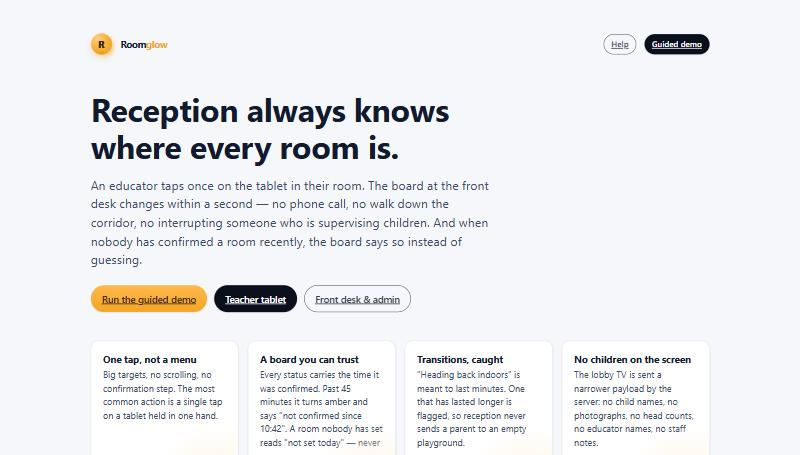
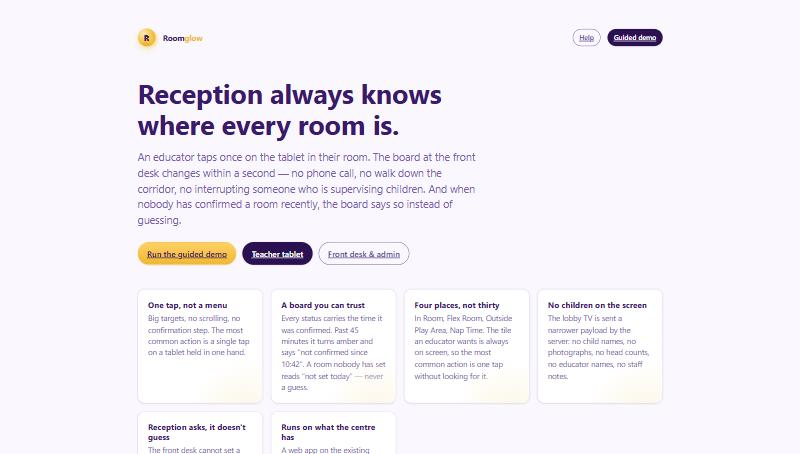
Bring the case study back in line with the product
The page was describing software that no longer exists: five places the
centre stopped using, a PIN as the only way to sign a tablet in, 79 tests,
and screenshots in the old palette.

Adds the two things the centre's first week actually produced - rooms
that combine when numbers drop, and a lobby screen that needed nothing
typed into it with a remote control - and the fifth real bug, which was
the worst of them and the only one no test could have caught.

Code extracts refreshed from source by a script rather than by hand.

diff --git a/code/core/rooms.ts b/code/core/rooms.ts
@@ -21,7 +21,7 @@ import { presence, type Audience } from './events.ts';
 import { clampText, minutesBetween, newId, nowIso } from './util.ts';
 import type { User } from './auth.ts';
 
-export type LocationKind = 'indoor' | 'outdoor' | 'transition' | 'activity' | 'offsite';
+export type LocationKind = 'indoor' | 'outdoor' | 'transition' | 'activity' | 'offsite' | 'rest';
 
 export interface Location {
   id: string;
@@ -97,6 +97,7 @@ interface StateRow {
   source: string | null;
   confirm_requested_at: string | null;
   confirm_requested_by: string | null;
+  merged_into: string | null;
 }
 
 /** What the lobby TV is allowed to know. No names. No notes. By construction. */
@@ -113,6 +114,10 @@ export interface KioskRoom {
   minutesSince: number | null;
   freshness: Freshness;
   backBy: string | null;
+  /** Set when this room's children are with another room. */
+  mergedInto: { id: string; name: string; shortName: string } | null;
+  /** Rooms that have merged into this one. */
+  hosting: Array<{ id: string; name: string; shortName: string }>;
 }
 
 /** What a signed-in member of staff sees in addition. */
@@ -155,6 +160,15 @@ interface JoinedRow extends StateRow, Room {
   location_label: string | null;
   location_kind: LocationKind | null;
   location_icon: string | null;
+  /** When merged, the host room's own place is what reception actually needs. */
+  host_id: string | null;
+  host_name: string | null;
+  host_short: string | null;
+  host_label: string | null;
+  host_location_id: string | null;
+  host_kind: LocationKind | null;
+  host_icon: string | null;
+  host_updated_at: string | null;
 }
 
 function joinedRows(roomId?: string): JoinedRow[] {
@@ -162,11 +176,17 @@ function joinedRows(roomId?: string): JoinedRow[] {
     `SELECT r.id, r.name, r.short_name, r.age_group, r.accent, r.sort_order, r.archived_at,
             s.room_id, s.location_id, s.note, s.back_by, s.version, s.updated_at,
             s.actor_id, s.actor_name, s.actor_role, s.source,
-            s.confirm_requested_at, s.confirm_requested_by,
-            l.label AS location_label, l.kind AS location_kind, l.icon AS location_icon
+            s.confirm_requested_at, s.confirm_requested_by, s.merged_into,
+            l.label AS location_label, l.kind AS location_kind, l.icon AS location_icon,
+            h.id AS host_id, h.name AS host_name, h.short_name AS host_short,
+            hl.label AS host_label, hl.kind AS host_kind, hl.icon AS host_icon,
+            hs.location_id AS host_location_id, hs.updated_at AS host_updated_at
        FROM rooms r
        LEFT JOIN room_state s ON s.room_id = r.id
        LEFT JOIN locations  l ON l.id = s.location_id
+       LEFT JOIN rooms      h  ON h.id = s.merged_into
+       LEFT JOIN room_state hs ON hs.room_id = h.id
+       LEFT JOIN locations  hl ON hl.id = hs.location_id
       WHERE r.archived_at IS NULL ${roomId ? 'AND r.id = ?' : ''}
       ORDER BY r.sort_order, r.name`,
     ...(roomId ? [roomId] : []),
@@ -174,20 +194,32 @@ function joinedRows(roomId?: string): JoinedRow[] {
 }
 
 function toKiosk(row: JoinedRow, limits: ReturnType<typeof thresholds>, now: string): KioskRoom {
-  const { freshness, minutesSince } = freshnessOf(row, row.location_kind, limits, now);
+  // A merged room borrows the host's place, because the host's name on its own
+  // leaves reception asking a second question. It borrows the host's confirmation time
+  // too: the claim that matters is the one about where those children physically are.
+  const merged = row.merged_into && row.host_id;
+  const kind = merged ? row.host_kind : row.location_kind;
+  const { freshness, minutesSince } = merged
+    ? freshnessOf({ updated_at: row.host_updated_at, location_id: row.host_location_id }, kind, limits, now)
+    : freshnessOf(row, kind, limits, now);
+
   return {
     id: row.id,
     name: row.name,
     shortName: row.short_name,
     ageGroup: row.age_group,
     accent: row.accent,
-    location: row.location_label,
-    locationKind: row.location_kind,
-    icon: row.location_icon,
-    updatedAt: row.updated_at,
+    location: merged ? row.host_label : row.location_label,
+    locationKind: kind,
+    icon: merged ? row.host_icon : row.location_icon,
+    updatedAt: merged ? row.host_updated_at : row.updated_at,
     minutesSince,
     freshness,
-    backBy: row.back_by,
+    backBy: merged ? null : row.back_by,
+    mergedInto: merged
+      ? { id: row.host_id!, name: row.host_name!, shortName: row.host_short! }
+      : null,
+    hosting: [],
   };
 }
 
@@ -219,6 +251,18 @@ export function buildBoard(audience: Audience): Board {
     audience === 'kiosk'
       ? rows.map((row) => toKiosk(row, limits, now))
       : rows.map((row) => toStaff(row, limits, now, devices));
+
+  // The other side of a merge: a host room should say who is in with it, so the front
+  // desk reads the answer from whichever card it happens to look at.
+  const byId = new Map(rooms.map((room) => [room.id, room]));
+  for (const room of rooms) {
+    if (!room.mergedInto) continue;
+    byId.get(room.mergedInto.id)?.hosting.push({
+      id: room.id,
+      name: room.name,
+      shortName: room.shortName,
+    });
+  }
 
   return {
     audience,
@@ -335,7 +379,10 @@ export function setStatus(input: SetStatusInput): SetStatusOutcome {
          actor_role  = excluded.actor_role,
          source      = excluded.source,
          confirm_requested_at = NULL,
-         confirm_requested_by = NULL`,
+         confirm_requested_by = NULL,
+         -- Saying where you are ends any merge: a room cannot be both somewhere of its
+         -- own and inside another room.
+         merged_into = NULL`,
       input.roomId,
       input.locationId,
       note,
@@ -370,6 +417,72 @@ export function setStatus(input: SetStatusInput): SetStatusOutcome {
   });
 }
 
+export type MergeOutcome =
+  | { status: 'ok'; room: StaffRoom }
+  | { status: 'no_room' }
+  | { status: 'no_host' }
+  | { status: 'self' }
+  | { status: 'chain'; hostName: string }
+  | { status: 'hosting'; guestNames: string[] };
+
+/**
+ * Put one room's children in with another's.
+ *
+ * Refused in either direction that would make a chain - a host that has itself moved on,
+ * or a room that is already hosting somebody else. Two hops would mean the board sending
+ * reception to a room that is not there either, and the card of the room at the far end
+ * would show no place at all. A chain is also a sign somebody tapped the wrong tile
+ * rather than something a centre means to do; the refusal says which tile to tap.
+ */
+export function mergeRoom(roomId: string, intoRoomId: string, actor: User): MergeOutcome {
+  const room = findRoom(roomId);
+  if (!room || room.archived_at) return { status: 'no_room' };
+  if (roomId === intoRoomId) return { status: 'self' };
+
+  const host = findRoom(intoRoomId);
+  if (!host || host.archived_at) return { status: 'no_host' };
+
+  const hostState = one<StateRow>('SELECT * FROM room_state WHERE room_id = ?', intoRoomId);
+  if (hostState?.merged_into) {
+    const target = findRoom(hostState.merged_into);
+    return { status: 'chain', hostName: target?.name ?? 'another room' };
+  }
+
+  const guests = many<{ name: string }>(
+    `SELECT r.name FROM room_state s JOIN rooms r ON r.id = s.room_id
+      WHERE s.merged_into = ? AND r.archived_at IS NULL ORDER BY r.sort_order`,
+    roomId,
+  );
+  if (guests.length) return { status: 'hosting', guestNames: guests.map((row) => row.name) };
+
+  const at = nowIso();
+  run(
+    `INSERT INTO room_state (room_id, version, merged_into, updated_at, actor_id, actor_name, actor_role, source,
+                             location_id, note, back_by, confirm_requested_at, confirm_requested_by)
+     VALUES (?, 1, ?, ?, ?, ?, ?, 'teacher', NULL, NULL, NULL, NULL, NULL)
+     ON CONFLICT(room_id) DO UPDATE SET
+       merged_into = excluded.merged_into,
+       location_id = NULL,
+       note        = NULL,
+       back_by     = NULL,
+       version     = room_state.version + 1,
+       updated_at  = excluded.updated_at,
+       actor_id    = excluded.actor_id,
+       actor_name  = excluded.actor_name,
+       actor_role  = excluded.actor_role,
+       source      = excluded.source,
+       confirm_requested_at = NULL,
+       confirm_requested_by = NULL`,
+    roomId,
+    intoRoomId,
+    at,
+    actor.id,
+    actor.name,
+    actor.role,
+  );
+  return { status: 'ok', room: roomForStaff(roomId)! };
+}
+
 /** Reception asks a room to confirm where it is. One tap instead of a phone call. */
 export function requestConfirmation(roomId: string, actor: User): StaffRoom | null {
   const room = findRoom(roomId);
@@ -400,6 +513,7 @@ export function clearBoard(): number {
     `UPDATE room_state SET location_id = NULL, note = NULL, back_by = NULL, updated_at = NULL,
                            actor_id = NULL, actor_name = NULL, actor_role = NULL, source = NULL,
                            confirm_requested_at = NULL, confirm_requested_by = NULL,
+                           merged_into = NULL,
                            version = version + 1`,
   ).changes;
 }
@@ -506,7 +620,16 @@ export function updateRoom(
 
 /** Archived, never deleted: the history of a closed room is still the centre's record. */
 export function archiveRoom(id: string): boolean {
-  return run('UPDATE rooms SET archived_at = ? WHERE id = ? AND archived_at IS NULL', nowIso(), id).changes > 0;
+  const archived = run(
+    'UPDATE rooms SET archived_at = ? WHERE id = ? AND archived_at IS NULL',
+    nowIso(),
+    id,
+  ).changes > 0;
+  // Anyone who was in with this room is now in with nothing. Say "not set today" on
+  // purpose rather than by accident: the merge is cleared and the version moves, so the
+  // rooms involved are asked to confirm like any other room nobody has set.
+  if (archived) run('UPDATE room_state SET merged_into = NULL, version = version + 1 WHERE merged_into = ?', id);
+  return archived;
 }
 
 export function createLocation(input: { label: string; kind: LocationKind; icon?: string }): Location {

diff --git a/code/core/auth.ts b/code/core/auth.ts
@@ -108,6 +108,50 @@ function startSession(user: User, userAgent: string | null): Session {
   return { token, csrf, expiresAt, user };
 }
 
+/**
+ * How a room's tablet signs in. The centre chooses.
+ *
+ *   'none' — tap the room and start. No PIN, no keyboard, nothing to forget or share.
+ *   'pin'  — a four-digit PIN names the individual educator making each change.
+ *
+ * 'none' is the default because this is a tablet mounted in one room inside a locked
+ * building, and an educator with a child on one hip should not be typing. What it costs
+ * is the name: a status change is attributed to "Sunshine Room tablet" rather than to a
+ * person. Everything else — the times, the history, the override record — is unchanged.
+ */
+export type TabletSignIn = 'none' | 'pin';
+
+/**
+ * Find or create the account a room's own tablet acts as.
+ *
+ * It is a real user row, so the board, the history and the audit log need no special
+ * case for it, and it is assigned to exactly one room, so the usual room check still
+ * stops one tablet changing another room. `is_demo` is 0: these are not seeded demo
+ * logins and must not block production mode from starting.
+ */
+export function signInRoomDevice(roomId: string, roomName: string, userAgent: string | null): Session {
+  const id = `dev-${roomId}`;
+  const label = `${roomName} tablet`;
+  const existing = one<User>(`SELECT ${USER_COLUMNS} FROM users u WHERE u.id = ?`, id);
+
+  if (!existing) {
+    run(
+      `INSERT INTO users (id, name, email, role, password_hash, pin_hash, status, is_demo, created_at)
+       VALUES (?,?,NULL,'teacher',NULL,NULL,'active',0,?)`,
+      id,
+      label,
+      nowIso(),
+    );
+  } else if (existing.name !== label) {
+    // The room was renamed. The history keeps the old name on old rows, which is correct.
+    run('UPDATE users SET name = ? WHERE id = ?', label, id);
+  }
+  run('INSERT OR IGNORE INTO user_rooms (user_id, room_id) VALUES (?,?)', id, roomId);
+
+  const user = one<User>(`SELECT ${USER_COLUMNS} FROM users u WHERE u.id = ?`, id)!;
+  return startSession(user, userAgent);
+}
+
 export function loginWithPassword(email: string, password: string, userAgent: string | null): Session | null {
   const row = one<User & { password_hash: string | null }>(
     `SELECT id, name, email, role, status, is_demo, created_at, last_login_at, password_hash

diff --git a/README.md b/README.md
@@ -24,11 +24,16 @@ states, all legible at a glance:
 
 | What you see | What it means |
 |---|---|
-| **In Classroom** · "Confirmed 6 min ago · 8:45 p.m." | An educator said so, recently |
-| **Outside / Playground** · "Back by 8:57 p.m." | With an expected return time |
-| **Heading Back Indoors** · amber stripes, *"longer than usual"* | A transition open for 14 minutes against a 10-minute threshold — reception will not send a parent to an empty playground |
-| **In Classroom** · amber, *"Not confirmed since 7:16 p.m. (1h 35m ago)"* | Probably still true. Not recently confirmed, and it says so |
-| **Not set today** · grey | Nobody has set it. **The board never guesses** — there is no default "In Classroom" |
+| **In Room** · "Confirmed 12 min ago · 8:29 p.m." | An educator said so, recently |
+| **Outside Play Area** · "Back by 8:47 p.m." | With an expected return time |
+| **with Sunshine Room** · and Sunshine Room's own place beneath it | Two rooms have combined. Reception gets the whole answer from either card |
+| **In Room** · amber stripes, *"Not confirmed since 7:06 p.m. (1h 35m ago)"* | Probably still true. Not recently confirmed, and it says so |
+| **Not set today** · grey | Nobody has set it. **The board never guesses** — there is no default "In Room" |
+
+The place list is the centre's, not the software's. This centre runs four: In Room, Flex
+Room, Outside Play Area, Nap Time. An earlier revision shipped five, including a
+*transition* state with its own overdue warning; the centre did not use it, so it was
+taken off the board and kept in the schema with a test still proving the warning fires.
 
 What is deliberately **not** on that screen: any child's name, any photograph, any head
 count, any educator's name, any note staff have typed. The server builds a separate,
@@ -41,14 +46,44 @@ event stream.
 ![The teacher tablet](screenshots/04-teacher-tablet.jpg)
 
 One tap. No menu, no confirmation step, no scrolling. Targets are 72px and the most
-frequent action is reachable without looking. Sign-in is a 4-digit PIN on a keypad,
-because the alternative is typing an email address while holding a child.
+frequent action is reachable without looking.
+
+Signing the tablet in is the centre's choice, because the honest trade-off is theirs to
+make. **Tap the room** and start is the default: fast, and a change is recorded against
+"Rainbow tablet". **A PIN per educator** records it against a person. Everything else —
+the times, the history, the override record — is identical either way, and the setting
+says exactly that rather than implying the PIN is the safe option.
 
 The sign-in screen lists **rooms, never staff names** — no personal information leaves the
 server before somebody has proved who they are.
 
 If a tap cannot reach the server, the tablet says **"not saved"** and offers a retry.
 Nothing is queued silently; nothing claims to have saved when it has not.
+
+## Two things the first week asked for
+
+Neither was in the plan. Both are the kind of thing only a real building produces.
+
+**Rooms combine.** When numbers drop at either end of the day, one room's children move
+in with another's — and the board had no way to say it, so a room would sit there reading
+"In Room" while its children were two doors away. A merge is not a place, so it is not
+stored as one: the room points at its host, inherits where that host is, and the host's
+own card names who is in with it. Tapping any place ends the merge, because a room that
+says where it is has plainly stopped being merged — there is no second button to
+remember. Chains are refused in both directions, since the room at the far end of one
+would show no place at all.
+
+**The television could not be typed into.** The lobby screen is driven by a browser with
+a remote control and no keyboard, and the setup instruction was "open the kiosk link from
+the admin page" — a forty-character key nobody finishes entering. Who may open the board
+is now the centre's own switch. Closed by default; open means one plain address that
+works first time on any screen, with what that costs written in full next to it. The
+payload did not change: the lobby screen's version is still built separately, and the
+tests still prove no note, no educator name and no child data crosses either way.
+
+A smaller one in the same spirit: televisions run browsers years behind a phone, so every
+modern CSS value on that page has a flat fallback under it, and a classic script says so
+in words if the real board never loads — rather than leaving "Loading" up for ever.
 
 ## Reception and administration
 
@@ -126,7 +161,7 @@ after a reconnect the screen is simply correct, whatever it missed.
 
 ## Testing
 
-**79 automated tests, all driving the real HTTP server** against a throwaway database —
+**102 automated tests, all driving the real HTTP server** against a throwaway database —
 no mocks. The reason is a scar from an earlier project: a `SELECT *` once shipped password
 hashes to a browser, invisible to the type system and obvious in a response body.
 
@@ -145,8 +180,18 @@ Three real bugs the tests caught during the build:
 A fourth was caught by the browser rather than a test: the Content-Security-Policy forbids
 inline `style` attributes, and several had been written into the markup.
 
+A fifth was caught by a script written for exactly this, and would have been the worst of
+them: `node:sqlite` enables foreign keys at construction — the opposite of the `sqlite3`
+command line, and the opposite of the comment in this project's own file. A later
+migration rebuilds a table, and the rebuild failed under that constraint. Every test
+passed, because tests start from an empty database that runs all migrations at once. An
+existing centre's database would simply have refused to open. There is now a check that
+builds a database the way the previous version left it and opens it with the current
+code, and it reads the expected schema version out of the schema rather than from a
+number somebody has to remember to update.
+
 **Live, against the deployed server:** a teacher's tap reached the front-desk stream in
-**669ms**, with the staff note and the educator's name confirmed absent from the wire.
+**1.0s**, with the staff note and the educator's name confirmed absent from the wire.
 
 ## Privacy, deliberately
 
